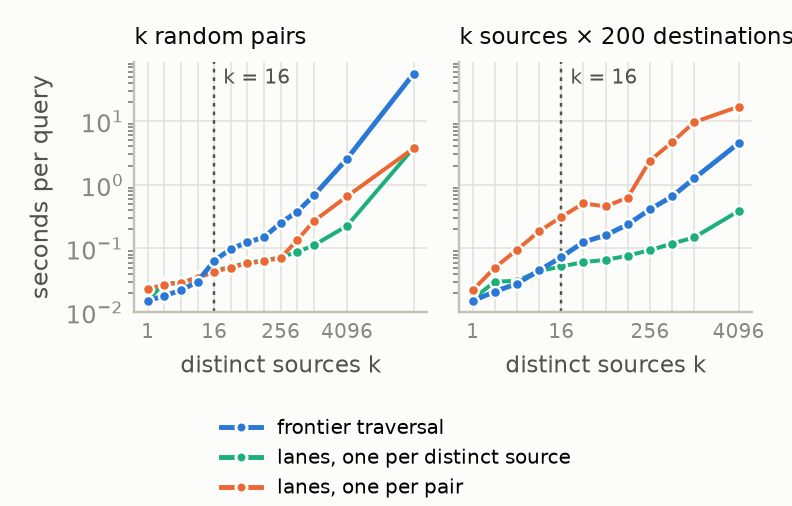
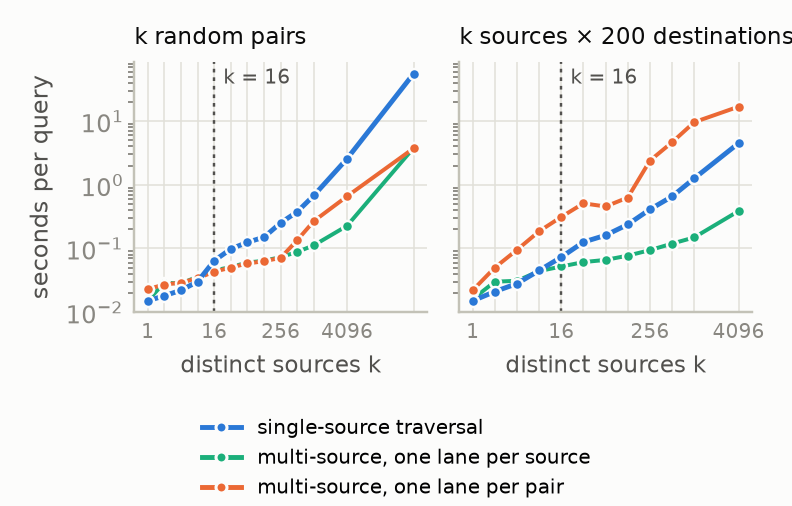
Paper: style pass and review of Section 6 (vocabulary single-source and multi-source traversal everywhere, timeout thresholds corrected, Memgraph one-source and import-ratio sentences corrected, one-pair thread gain, anaphora and colons removed)

Changed region(s): [[0.2424, 0.8893, 0.7576, 0.919], [0.2424, 0.9486, 0.7273, 0.9783], [0.2424, 0.83, 0.6061, 0.8597]]

diff --git a/paper/sections/evaluation.tex b/paper/sections/evaluation.tex
@@ -61,53 +61,41 @@ systems return the same number of reached pairs and the same sum of path lengths
 \subsection{One path or thousands}
 \label{sec:eval-pairs}
 
-Shared traversal pays from a handful of sources on; at one pair and one source the per-source engines lead, by a
-fixed cost of a few to a few tens of milliseconds (Figure~\ref{fig:scaling}). For one pair at SF300 Neo4j answers in
+Shared traversal pays from a handful of sources on; at one pair and one source the per-source engines lead, by a fixed cost of a few to tens of milliseconds (Figure~\ref{fig:scaling}). For one pair at SF300 Neo4j answers in
 4\,ms, the index route in 22\,ms, Kuzu in 52 and FalkorDB in 79. For one source Kuzu, whose recursive join from a
 literal source is a true single-source search, takes 33\,ms at SF300 against the index route's 41, and 14 against 19
 at SF100. The operator's 22\,ms at SF300 are the traversal itself. The sampled pair is five hops apart, and the five levels, which touch most of the graph, take 18 to 20 of the 22\,ms; the snapshot, the per-source arrays and the output take 2 to 4, and a one-hop pair from the same source 2 to 9. Neo4j's bidirectional search meets in the middle after two or three levels from each side. At sixteen the order has turned: 16 pairs at SF300 take 139\,ms over the
 index, 945\,ms in Kuzu, 1.1\,s in FalkorDB and 3.5\,s in Neo4j, and 16 sources 182\,ms against Kuzu's 333.
 
-From there the two kinds of system part, for a reason of design. Every native system answers a
+From sixteen sources on the gap is one of design. Every native system answers a
 list of pairs one search at a time, Kuzu through its recursive join, Neo4j, FalkorDB and Memgraph through one
 \texttt{shortestPath} or bounded BFS per pair, so their time grows linearly with $n$; Neo4j's parallel runtime runs
 those searches side by side, the others one after the other. The operator shares one traversal among up to 256
 sources, and its time grows by a factor of 130 from one pair to 65\,536 at SF10 (3 to 395\,ms) while the pair count
-grows by 65\,536. At 65\,536 pairs on SF10 the index route is 33 times faster than Neo4j (12.9\,s), 80 times faster
-than Kuzu over 32 connections (31.8\,s) and 220 times faster than FalkorDB (87\,s); Memgraph takes 127\,s over 32
-connections and Neo4j GDS exceeds the limit. At SF300 the index route answers 65\,536 pairs in 10.0\,s and the build
-route in 12.8\,s, Neo4j needs 248\,s for a quarter of them and exceeds the limit at 65\,536, and every other system
-exceeds it from 2048 pairs (Kuzu 111\,s, FalkorDB 148\,s) or earlier (Memgraph from 1024, GDS from 2048).
+grows by 65\,536. At 65\,536 pairs on SF10 the index route takes 395\,ms, Neo4j 12.9\,s, Kuzu 31.8\,s over 32 connections, FalkorDB 87\,s and Memgraph 127\,s, 33 to 320 times as long; Neo4j GDS exceeds the limit. At SF300 the index route answers 65\,536 pairs in 10.0\,s and the build
+route in 12.8\,s, Neo4j needs 248\,s for a quarter of them and exceeds the limit at 65\,536, and every other system exceeds it from 16\,384 pairs, after 111\,s (Kuzu) and 148\,s (FalkorDB) at 2048, or earlier (Memgraph from 1024, GDS from 2048).
 
 Sources $\times$ all is the shape where a native system does share work when its language lets it, and it separates
 the baselines into two kinds. Kuzu and Neo4j GDS run one search per source and complete more; Neo4j's Cypher and
 FalkorDB have no single-source form, run one \texttt{shortestPath} per destination and exceed the limit already at one
-source on SF100 and SF300 (17.6 and 293\,s at SF10). Memgraph's \texttt{*BFS} from one source is competitive at one
-source and an order of magnitude slower at sixteen. At 1024 sources on SF300 the index route produces 530\,M
+source on SF100 and SF300 (17.6 and 293\,s at SF10). Memgraph's \texttt{*BFS} from one source takes 14\,ms at SF10 but 1.2\,s at SF100 and 7.4\,s at SF300, and exceeds the limit at 1024 sources on both. At 1024 sources on SF300 the index route produces 530\,M
 distances in 773\,ms, Kuzu needs 21.9\,s, 28 times longer, and GDS and Memgraph exceed the limit; the build route
 takes 1.1\,s.
 
-\duckdb's own routes draw the line the operator removes. The recursive CTE grows with the pairs like the native
-engines and faster: 59.8\,s for 1024 pairs at SF10, over the limit from 16\,384 pairs at SF10 and from 1024 at SF100.
+\duckdb's own routes show the two limits the operator removes. The recursive CTE grows with the pairs like the native engines and faster, 59.8\,s for 1024 pairs at SF10, over the limit from 16\,384 pairs at SF10 and from 1024 at SF100.
 The 2023 UDF route holds on random pairs, an order of magnitude behind the operator (7.2\,s against 395\,ms at
 65\,536 pairs on SF10, 112\,s against 3.3\,s on SF100), because a UDF receives work per tuple and cannot parallelize
-one query; on sources $\times$ all that limit is fatal, 2.4\,s for one source at SF10 against 3\,ms and over the
-limit at 1024 sources, 58\,s for one source at SF100. The operator's reach mode exists for this shape.
+one query; on sources $\times$ all it leaves the UDF route at 2.4\,s for one source at SF10 against 3\,ms, over the limit at 1024 sources, and at 58\,s for one source at SF100. The operator's reach mode exists for this shape.
 
 \input{tables/graphalytics}
 
 \paragraph{Graph structure} Table~\ref{tab:graphalytics} repeats the sources $\times$ all sweep on the three
-Graphalytics graphs, with Kuzu, the strongest baseline above, on all three and every system on cit-Patents. The shape
-of the trade-off is the same. At one source the per-source engines lead where a search is small, Memgraph in 4\,ms
+Graphalytics graphs, with Kuzu, the strongest baseline above, on all three and every system on cit-Patents, and shows the same trade-off. At one source the per-source engines lead where a search is small, Memgraph in 4\,ms
 and Kuzu in 7 against the index route's 32 on cit-Patents, where a source reaches about 2000 of 3.8M vertices; where a
 search covers the graph, one source is a tie (175 against Kuzu's 189\,ms on datagen, 351 against 336 on graph500-24).
 At 1024 sources the index route leads on every graph: 437\,ms against Memgraph's 498 and Kuzu's 1.5\,s on cit-Patents,
 4.1\,s against 191\,s on datagen, and 8.8\,s against 495\,s on graph500-24, where each of the 1024 sources reaches all
-8.9M vertices and Kuzu streams the result per source. On 65\,536 random pairs Kuzu exceeds the limit on both large
-graphs from 2048 pairs; the index route takes 51\,s on datagen and 144\,s on graph500-24. One irregularity is ours.
-On datagen and graph500-24 the 16-source point is slower than the 128-source point (1.9 against 1.1\,s, 4.5 against
-2.7\,s), because the few-sources rule sends 16 sources to the frontier traversal, which sweeps 4 to 9\,M vertices once
-per source, while 128 sources run on the lanes. The default of 16 fits \texttt{knows}; Section~\ref{sec:choice} shows that the crossover is a property of the graph. None of the six graphs has a high diameter. On a road network a search runs hundreds of levels with small frontiers, where the lanes' per-level sweep is at its worst and the sparse levels carry the work; we have not measured that case.
+8.9M vertices and Kuzu streams the result per source. On random pairs Kuzu exceeds the limit from 2048 pairs on graph500-24 and from 16\,384 on datagen; the index route answers 65\,536 pairs in 51\,s on datagen and 144\,s on graph500-24. On both graphs the 16-source point is slower than the 128-source point (1.9 against 1.1\,s, 4.5 against 2.7\,s), and that irregularity is our few-sources rule, which sends 16 sources to the single-source traversal, each search sweeping 4 to 9\,M vertices, while 128 sources run as lanes. The default of 16 fits \texttt{knows}; Section~\ref{sec:choice} shows that the crossover is a property of the graph. None of the six graphs has a high diameter. On a road network a search runs hundreds of levels with small frontiers, where the multi-source traversal's per-level sweep is at its worst and the sparse levels carry the work; we have not measured that case.
 
 \subsection{LDBC queries}
 \label{sec:eval-ldbc}
@@ -132,15 +120,13 @@ measures at 6 against 116\,ms for 1024 sources at SF100.
 
 Both routes complete every point, and the index route is faster on every one of them. For one pair the gap is the
 build of the CSR, 22, 126 and 263\,ms at SF10, SF100 and SF300 (25 against 3, 141 against 15, 285 against 22\,ms),
-the whole query on the build route. The gap stays near the build up to 2048 pairs and then grows with the pairs; at 65\,536 pairs it is 2.8\,s of 12.8\,s at SF300 and 0.9\,s of 4.1\,s at SF100, more than the build alone. The two routes build their partitions with the same code and read the same pairs; they differ in the id space, the build route numbers vertices by the table's row order and the index by sorted keys. An index keyed by the persons' row ids, which numbers vertices as the build route does, takes 12.1\,s for 65\,536 pairs at SF300 and 4.0\,s at SF100, within the per-query build of the build route's 12.8 and 4.1\,s. The index's lead beyond the build, 2.3\,s at SF300 and 0.7 at SF100, is therefore the vertex numbering: ids in sorted key order give the traversal a locality that the table's row order does not.
+the whole query on the build route. The gap stays near the build up to 2048 pairs and then grows with the pairs; at 65\,536 pairs it is 2.8\,s of 12.8\,s at SF300 and 0.9\,s of 4.1\,s at SF100, more than the build alone. The two routes build their partitions with the same code and read the same pairs; they differ in the id space, the build route numbers vertices by the table's row order and the index by sorted keys. An index keyed by the persons' row ids, which numbers vertices as the build route does, takes 12.1\,s for 65\,536 pairs at SF300 and 4.0\,s at SF100, within the per-query build of the build route's 12.8 and 4.1\,s. The index's lead beyond the build, 2.3\,s at SF300 and 0.7 at SF100, is therefore the vertex numbering; ids in sorted key order give the traversal a locality that the table's row order does not.
 
 Table~\ref{tab:fixed-costs} gives what the index costs before the first query. Creating it is one partitioned CSR
 build over the whole table plus the dictionary and a row id per edge: 0.13, 1.3 and 4.5\,s on the three
 \texttt{knows} graphs and 50 to 60\,s on the two Graphalytics graphs of 520 to 540\,M edges, between 9 and 15 million
 edges per second. The index takes 11 to 13 bytes per edge, 17 on cit-Patents, whose 4.4 edges per vertex make the
-sparse rows a larger share; Kuzu's store takes 16 to 31. The native systems import the same CSV files between 7 times
-(Kuzu, from Parquet) and 570 times (FalkorDB, 43 minutes at SF300) slower than the index is created, and Neo4j takes
-14 minutes at SF300. After a restart the index is loaded on the first query, in 17, 60 and 117\,ms on the three \texttt{knows} graphs and 0.9\,s on the two large Graphalytics graphs with the database file in the page cache; from disk the load is the index's bytes at the volume's 270\,MB/s, 2.1\,s at SF300 and 23 to 24\,s on the large graphs.
+sparse rows a larger share; Kuzu's store takes 16 to 31. The native systems take longer to import the same data, Kuzu 2 to 9 times the index's creation (from Parquet), and at SF300 Neo4j 14 minutes and FalkorDB 43, that is 190 and 570 times the creation. After a restart the index is loaded on the first query, in 17, 60 and 117\,ms on the three \texttt{knows} graphs and 0.9\,s on the two large Graphalytics graphs with the database file in the page cache; from disk the load is the index's bytes at the volume's 270\,MB/s, 2.1\,s at SF300 and 23 to 24\,s on the large graphs.
 
 \subsection{Updates and concurrent readers}
 \label{sec:eval-updates}
@@ -174,7 +160,7 @@ The index's margin under concurrency grows with the graph and with the clients (
 route it takes 3.9\,s and 5.9\,s, because sixteen builds of 55.7\,M edges compete for the same 32 cores. The writer's
 commit takes 153\,ms under the index's readers and 647 under the build route's, and the process peaks at 6.0 against
 17.8\,GiB. At SF100 the medians are 64 against 1196\,ms, at SF10 42 against 98, and with one reader at SF10 8 against
-20; the index route leads at every scale, and by a factor that is the build cost times the readers. Single-pair throughput shows the same margin from the other side. From 1 to 32 clients the index route climbs from 61 to 329
+20; the index route leads at every scale, and the build route's latency is about the build cost times the readers, sixteen builds of 263\,ms at SF300. Single-pair throughput shows the same margin from the other side. From 1 to 32 clients the index route climbs from 61 to 329
 queries per second at SF300 while the build route stays at 4 to 5, from 112 to 928 against 7 to 14 at SF100, and from
 396 to 5583 against 56 to 187 at SF10; at 32 clients the index route holds 1.7\,GiB against the build route's
 23.3\,GiB at SF300, one CSR per client.
@@ -188,19 +174,14 @@ and the p99 at 277\,ms, and the four queries that triggered a fold take 1.7 to 1
 
 \input{tables/ablation}
 
-Table~\ref{tab:ablation} switches the operator's mechanisms off one at a time on the index route at SF100. The choice of traversal is the largest term. The frontier traversal for every query takes 39.1\,s for 65\,536 pairs, twelve times
-the default's 3.3\,s, and 1.1\,s for 1024 sources, 2.7 times the default; the lanes for every query change nothing,
-including for one pair, which at SF100 costs 15\,ms either way. Grouping the pairs by source matters when pairs share a
-source: 2048 random pairs take 520\,ms ungrouped against 135, and 1024 sources to one destination 284 against 116. The scheduler's grouping of
+Table~\ref{tab:ablation} switches the operator's mechanisms off one at a time on the index route at SF100. The choice of traversal is the largest term. The single-source traversal for every query takes 39.1\,s for 65\,536 pairs, twelve times the default's 3.3\,s, and 1.1\,s for 1024 sources, 2.7 times the default; the multi-source traversal for every query changes nothing, including for one pair, which at SF100 costs 15\,ms either way. Grouping the pairs by source matters when pairs share a source; 2048 random pairs take 520\,ms ungrouped against 135, and 1024 sources to one destination 284 against 116. The scheduler's grouping of
 batches is worth 2.4 times at 65\,536 pairs (7.9 against 3.3\,s), and running one batch at a time eight times (26.7\,s;
 3.5 against 0.38\,s at SF10, 38.8 against 10.0\,s at SF300); on graph500-24 the ungrouped batches exceed the machine's
 memory at 65\,536 pairs, 98\,GiB against 32 with grouping, and every grouping that gives a batch all 32 threads lands
-within 3\,\% of the default while splitting the threads among batches costs 15 to 25\,\%. The frontier summary bitmap saves 27\,\% at 65\,536 pairs. Destination ranges of 4096 instead of 65\,535 ids cost 1.8
+within 3\,\% of the default while splitting the threads among batches costs 15 to 25\,\%. The summary bitmap saves 27\,\% at 65\,536 pairs. Destination ranges of 4096 instead of 65\,535 ids cost 1.8
 times at 65\,536 pairs, because a sixteenth of the edges per partition means sixteen times the partitions per level.
 Reverse partitions turn 1024 sources to one destination into one search from the destination, 6\,ms against 116.
 Running sources $\times$ all as an explicit pair list costs 31.7\,s against 421\,ms for 1024 sources, the case reach
 mode was built for, and reach as one search per source 1.1\,s. Paths instead of lengths cost 14 times at 65\,536
 pairs, because the operator runs paths as one search per source (Section~\ref{sec:traversals}). On 32 threads the
-operator is 23 times faster than on one for 65\,536 pairs (3.3 against 76.5\,s) and 11 times for 1024 sources; one
-pair gains nothing from threads, 25 against 15\,ms, because a frontier traversal with one source parallelizes only its
-dense levels.
+operator is 23 times faster than on one for 65\,536 pairs (3.3 against 76.5\,s) and 11 times for 1024 sources; one pair gains little from threads, 25\,ms on one against 15 on 32, because a single-source traversal parallelizes only its dense levels.

diff --git a/paper/sections/operator.tex b/paper/sections/operator.tex
@@ -180,9 +180,8 @@ deduplication.
   \centering
   \includegraphics[width=\linewidth]{figures/crossover_sf100.pdf}
   \caption{Seconds per query over the index at SF100, 32 threads, median of three runs, for $k$ distinct sources run
-  three ways: the frontier traversal once per source, lanes with one lane per distinct source, and lanes with one lane
-  per pair. Left: $k$ random pairs, one destination each; right: $k$ sources with 200 destinations each. The dotted
-  line is the smallest $k$ at which the frontier traversal is no longer within a tenth of the fastest way.}
+  three ways: the single-source traversal once per source, and the multi-source traversal with one lane per distinct source and with one lane per pair. Left: $k$ random pairs, one destination each; right: $k$ sources with 200 destinations each. The dotted
+  line is the smallest $k$ at which the single-source traversal is no longer within a tenth of the fastest way.}
   \label{fig:crossover}
 \end{figure}
 
@@ -207,9 +206,9 @@ set and its dense levels whatever its number of lanes. Many sources favour the b
 the work of every level and keep no per-vertex arrays; on BI19 at SF300 the deduplicated batches are 30 times faster
 than single-source searches. The crossover depends on the graph. On the Graphalytics graphs of Section~\ref{sec:eval} it lies at 4 sources on
 datagen-8\_4-fb, at 16 on graph500-24 and at 256 on cit-Patents, and no fixed threshold fits all three; Section~\ref{sec:cost} discusses what a cost model needs in order to replace it. Figure~
-ef{fig:crossover} shows the three ways of running $k$ distinct sources at SF100: the frontier traversal
+ef{fig:crossover} shows the three ways of running $k$ distinct sources at SF100: the single-source traversal
 stays within a tenth of the best up to $k = 8$ on both shapes and loses from $k = 16$; at SF10 it holds to $k = 32$
-with 200 destinations per source and to $k = 64$ with one. \rev{The lanes pay for the time in memory; at SF100 a batch holds a working set of 41\,MB for up to 256 distinct sources and 665\,MB at 4096, against 5\,MB for the frontier traversal.}
+with 200 destinations per source and to $k = 64$ with one. \rev{The lanes pay for the time in memory; at SF100 a batch holds a working set of 41\,MB for up to 256 distinct sources and 665\,MB at 4096, against 5\,MB for the single-source traversal.}
 
 \subsection{Parallel execution as a chain of events}
 \label{sec:phases}

diff --git a/scripts/plot_sweep_results.py b/scripts/plot_sweep_results.py
@@ -1783,7 +1783,7 @@ def crossover_sf100_figure(filename, sf="100"):
     axes[0][0].set_ylabel("seconds per query")
     handles = [Line2D([], [], color=c, linewidth=1.6, marker="o", markersize=3.6, markeredgecolor=SURFACE)
                for _, _, c in CROSSOVER_KERNELS]
-    fig.legend(handles, ["frontier traversal", "lanes, one per distinct source", "lanes, one per pair"],
+    fig.legend(handles, ["single-source traversal", "multi-source, one lane per source", "multi-source, one lane per pair"],
                loc="lower center", ncol=1, bbox_to_anchor=(0.5, -0.02), handlelength=2.0, fontsize=6.5)
     fig.tight_layout(rect=(0, 0.2, 1, 1))
     save(fig, filename)
@@ -1792,12 +1792,12 @@ def crossover_sf100_figure(filename, sf="100"):
 
 ABLATION_ROWS = [
     ("baseline", "default, 32 threads"),
-    ("single_source_kernel", "frontier traversal for every query"),
-    ("multi_source_dedup", "lanes for every query"),
+    ("single_source_kernel", "single-source traversal for every query"),
+    ("multi_source_dedup", "multi-source traversal for every query"),
     ("no_source_grouping", "pairs not grouped by source"),
     ("no_grouped_batches", "batches not grouped by the scheduler"),
     ("sched_g1_w32", "one batch at a time"),
-    ("no_frontier_bitmap", "no frontier summary bitmap"),
+    ("no_frontier_bitmap", "no summary bitmap"),
     ("partitions_4096", "destination ranges of 4096"),
     ("reverse_index", "with reverse partitions"),
     ("pair_mode", "sources $\\times$ all as a pair list"),

diff --git a/paper/tables/ablation.tex b/paper/tables/ablation.tex
@@ -4,12 +4,12 @@
  & \multicolumn{3}{c}{random pairs} & \multicolumn{2}{c}{sources $\times$ all} & $\to$ 1 \\
 configuration & 1 & 2048 & 65\,536 & 1 & 1024 & 1024 \\ \midrule
 default, 32 threads & 15\,ms & 135\,ms & 3.3\,s & 19\,ms & 421\,ms & 116\,ms \\
-frontier traversal for every query & 15\,ms & -- & 39.1\,s & 19\,ms & 1.1\,s & 1.1\,s \\
-lanes for every query & 15\,ms & -- & 3.3\,s & 19\,ms & 397\,ms & 118\,ms \\
+single-source traversal for every query & 15\,ms & -- & 39.1\,s & 19\,ms & 1.1\,s & 1.1\,s \\
+multi-source traversal for every query & 15\,ms & -- & 3.3\,s & 19\,ms & 397\,ms & 118\,ms \\
 pairs not grouped by source & 24\,ms & 520\,ms & 3.3\,s & 19\,ms & 410\,ms & 284\,ms \\
 batches not grouped by the scheduler & 15\,ms & 258\,ms & 7.9\,s & 19\,ms & 377\,ms & 151\,ms \\
 one batch at a time & -- & 814\,ms & 26.7\,s & -- & -- & -- \\
-no frontier summary bitmap & -- & 167\,ms & 4.2\,s & -- & -- & -- \\
+no summary bitmap & -- & 167\,ms & 4.2\,s & -- & -- & -- \\
 destination ranges of 4096 & -- & 193\,ms & 6.0\,s & 18\,ms & 335\,ms & -- \\
 with reverse partitions & 15\,ms & -- & 3.3\,s & 18\,ms & 419\,ms & 6\,ms \\
 sources $\times$ all as a pair list & 15\,ms & -- & 3.3\,s & 83\,ms & 31.7\,s & 117\,ms \\

diff --git a/paper/STYLE.md b/paper/STYLE.md
@@ -116,7 +116,7 @@ One name per thing, used the same way in the text, the figures and the captions.
 | single-source traversal | searches run one per source, each with its own frontier | frontier traversal, per-source kernel |
 | multi-source traversal | searches run as lanes of batches | MS-BFS kernel |
 | lane | one search inside a batch: one source with its destination list | |
-| batch | up to 512 lanes traversed together over one working set (renamed from wave, 2 Nov) | wave |
+| batch | up to 256 lanes traversed together over one working set (renamed from wave, 2 Nov; 256 since rc9) | wave |
 | working set | a batch's three bit sets per vertex plus the summary bitmap | |
 | batches in progress | the batches the scheduler runs at once, each with its working set (replaces "worker group", 2 Nov) | worker group, group |
 | level | one breadth-first step; in the multi-source traversal an explore phase and a check phase | iteration |
